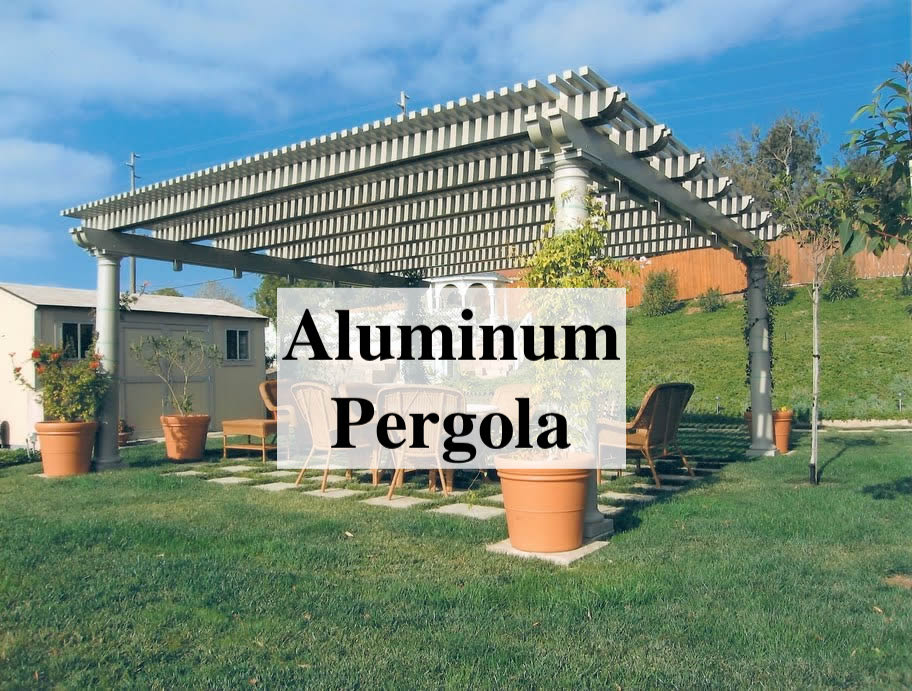
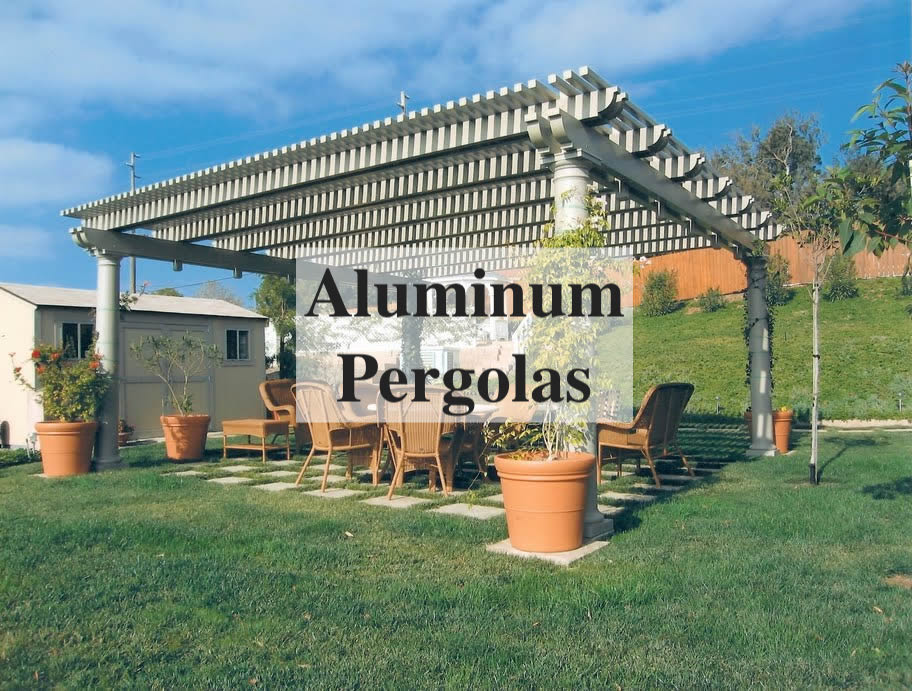
changed text size on home page images

Changed region(s): [[0.2763, 0.3343, 0.7061, 0.699]]

diff --git a/views/retractable.html b/views/retractable.html
@@ -5,6 +5,7 @@
   </p>
   <hr class="retractable__hr">
   <figure><img src="./img/retratables/Martinez-install-9-4-08-3.jpg" alt=""></figure>
+  <figure><img src="./img/retratables/retractable-awning.jpg" alt=""></figure>
   <figure><img src="./img/retratables/roof-mount-retracted.jpg" alt=""></figure>
   <figure><img src="./img/retratables/Schneider-finish-photos-9-2-08-6.jpg" alt=""></figure>
   <figure><img src="./img/retratables/Total-Eclipse-12.jpg" alt=""></figure>
